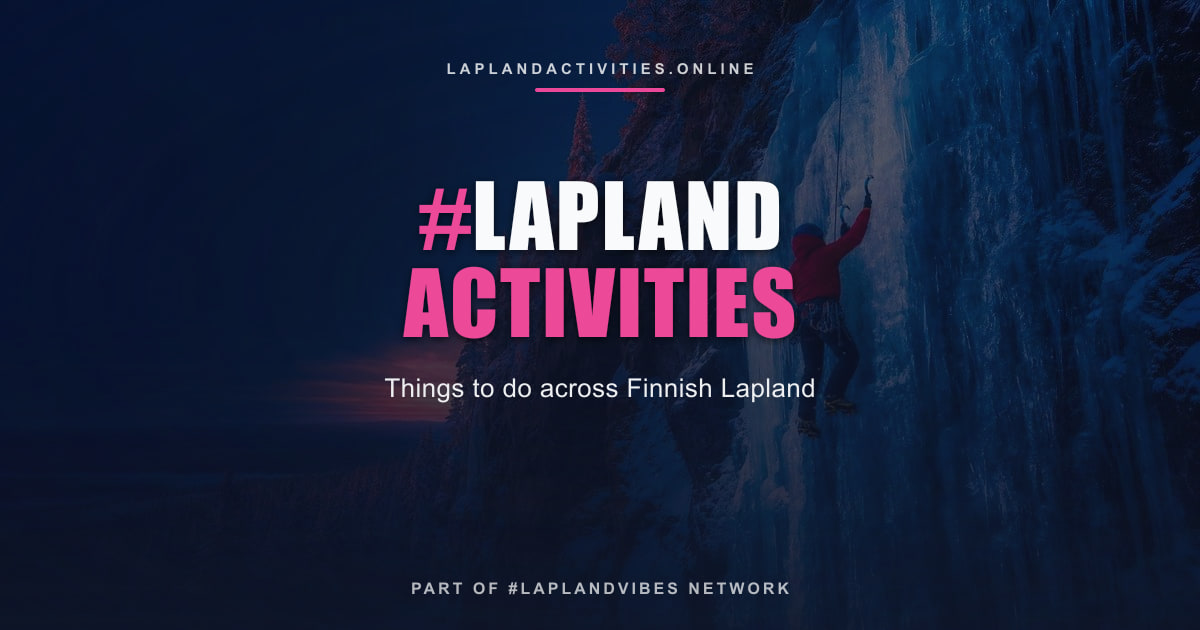
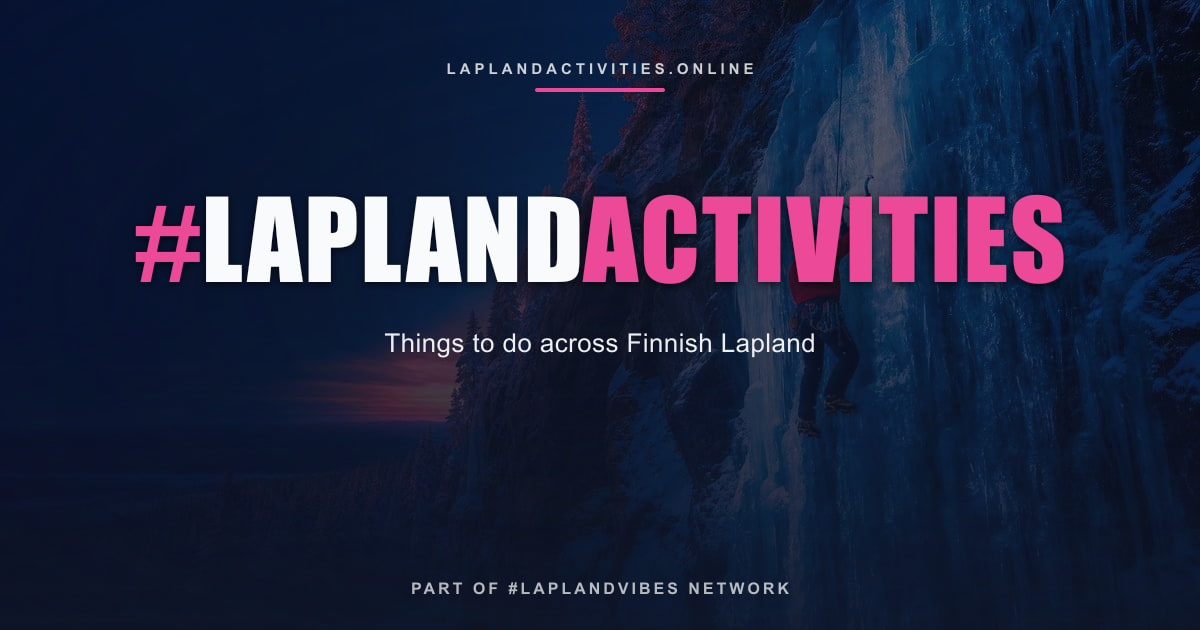
fix: GYG widgets were showing GLOBAL inventory (Shanghai tours on Inari page)
- root cause: locationId 178 is not a valid GYG location -> SDK silently
  fell back; and 4 more call sites had no locationId at all ('auto' mode)
- GetYourGuideWidget: locationId now REQUIRED, 'auto' fallback removed
  (TS then exposed the 3 hidden auto callers: Home/DestinationsIndex/
  SummerBand -> Lapland region 2652)
- per-destination verified IDs from _affiliate/gyg-location-ids.md:
  rovaniemi 2653, levi 150197, yllas 87669, saariselka 181615,
  inari 164594, ruka->kuusamo 113322, posio 217155, tornio 192017
- category pages: 178 -> 2652 (lapland-finland-l2652, verified)
- content: +2 authentic animal-experience niches (brown-bear hide
  watching Kuusamo/Ruka May-Aug, summer husky kennel + puppies) with
  fi/de/es/ja/pt-BR/zh-CN translations (others EN-fallback by design)

Changed region(s): [[0.0925, 0.2714, 0.8942, 0.573], [0.3083, 0.6032, 0.6783, 0.6333]]

diff --git a/src/locales/data.ja.ts b/src/locales/data.ja.ts
@@ -32,6 +32,8 @@ export const ACT_JA = {
   'rov-snowmobile-full': { title: '大自然スノーモービル遠征（終日）', description: 'ラップランドの奥深い自然へ分け入る100kmの壮大なスノーモービルアドベンチャー。凍った川を渡り、森の小道を進み、原生の山小屋で昼食をとります。', highlights: ['100kmのコース', '山小屋でのランチ', '川渡り'], duration: '7 h', difficulty: 'Impegnativo', category: 'アドベンチャー' },
   'rov-ice-karting': { title: '家族向けスノーモービル＆アイスカートコンボ', description: 'まずは子ども用ミニスノーモービルから始め、続いて氷上トラックでゴーカートレース。その後はホットチョコレートで体を温めます。', highlights: ['子ども用スノーモービル', 'アイスカートトラック', '家族向け'], duration: '3 h', difficulty: 'Facile', category: 'アドベンチャー' },
   'rov-arktikum': { title: 'Arktikum科学博物館と北極センター', description: 'Ounasjoki川を見晴らすガラスのトンネルが印象的な建築の一流博物館で、北極圏の魅力あふれる歴史と文化を探求します。', highlights: ['インタラクティブ展示', 'オーロラシアター', '北極圏の歴史'], duration: '2-3 h', difficulty: 'Facile', category: '文化と伝統' },
+  'ruka-bear-hide': { title: '観察小屋からのヒグマウォッチング', description: '東部国境近くのプロ仕様の撮影ハイドに座り、夕暮れにタイガから現れる野生のヒグマを待ちます。安全説明のあとは、静寂とフィンランド最大の捕食者だけの世界。ベストシーズンは5月から8月。', highlights: ['柵なしの野生ヒグマ', 'プロのハイドとガイド', 'ベストシーズンは5-8月'], duration: '夕方から翌朝', difficulty: '簡単', category: '動物ふれあい体験' },
+  'rov-husky-summer': { title: '夏のハスキー犬舎見学と子犬ふれあい', description: 'そり犬たちの夏休みをのぞいてみましょう。稼働中の犬舎を見学し、今年生まれた子犬に会い、ハスキーがシーズンの合間にどう訓練し休むのかを学びます。穏やかで家族向きの訪問で、いちばんの見どころは子犬エリアです。', highlights: ['今年生まれた子犬に会える', '稼働犬舎の見学', 'ファミリー向け'], duration: '2時間', difficulty: '簡単', category: '動物ふれあい体験' },
   'rov-ranua-zoo': { title: 'Ranua野生動物園、ホッキョクグマ', description: 'フィンランド唯一のホッキョクグマをはじめ、北極圏の動物たちに出会えます。雪道を歩きながら、クズリ、オオヤマネコ、オオカミなど50種以上の野生動物を観察できます。', highlights: ['ホッキョクグマ', '50種以上の北極圏の動物', '遊歩道'], duration: '3-4 h', difficulty: 'Facile', category: '動物とのふれあい' },
   'rov-ice-floating': { title: '北極圏アイスフローティング体験', description: 'ドライスーツを着て、北極圏の空の下、凍った川に浮かびます。非日常的で穏やかな体験のあとは、暖かいティーピーで温かい飲み物を。', highlights: ['ドライスーツの貸与', '温かい飲み物付き', '唯一無二の体験'], duration: '2 h', difficulty: 'Facile', category: 'ウェルネスとサウナ' },
   'rov-santapark': { title: 'SantaPark地下洞窟', description: '本物の洞窟の中にある地下のクリスマステーマパーク。エルフの学校、氷のギャラリー、ジンジャーブレッド作り、そして北極圏の地下での思い出に残るショー。', highlights: ['地下洞窟', 'エルフの学校', '氷のギャラリー'], duration: '2-3 h', difficulty: 'Facile', category: '文化と伝統' },

diff --git a/src/locales/data.es.ts b/src/locales/data.es.ts
@@ -32,6 +32,8 @@ export const ACT_ES = {
   'rov-snowmobile-full': { title: 'Expedición en motonieve por la naturaleza salvaje (día completo)', description: 'Una épica aventura en motonieve de 100 km en lo más profundo de la naturaleza lapona. Cruce ríos helados, recorra senderos forestales y deténgase en una cabaña salvaje para almorzar.', highlights: ['Recorrido de 100 km', 'Almuerzo en cabaña', 'Cruces de ríos'], duration: '7 h', difficulty: 'Difícil', category: 'Aventura' },
   'rov-ice-karting': { title: 'Combo de motonieve e ice karting para familias', description: 'Empiece con minimotonieves para niños y luego compita en la pista de hielo en kart. Caliéntese después con chocolate caliente.', highlights: ['Motonieves para niños', 'Pista de ice karting', 'Apto para familias'], duration: '3 h', difficulty: 'Fácil', category: 'Aventura' },
   'rov-arktikum': { title: 'Museo de la ciencia Arktikum y centro ártico', description: 'Explore la fascinante historia y cultura de la región ártica en este museo de primer nivel de arquitectura extraordinaria, con un túnel de cristal asomado al río Ounasjoki.', highlights: ['Exposiciones interactivas', 'Teatro de la aurora boreal', 'Historia ártica'], duration: '2-3 h', difficulty: 'Fácil', category: 'Cultura y patrimonio' },
+  'ruka-bear-hide': { title: 'Observación de osos pardos desde un escondite', description: 'Siéntate en un escondite fotográfico profesional cerca de la frontera este mientras osos pardos salvajes salen de la taiga al anochecer. Tras la charla de seguridad, solo quedáis tú, el silencio y el mayor depredador de Finlandia. Temporada alta de mayo a agosto.', highlights: ['Osos salvajes, sin vallas', 'Escondite profesional y guía', 'Temporada alta mayo-agosto'], duration: 'De la tarde a la mañana', difficulty: 'Fácil', category: 'Experiencias con animales' },
+  'rov-husky-summer': { title: 'Visita de verano a un criadero de huskies', description: 'Descubre qué hacen los perros de trineo en vacaciones: recorre un criadero en activo, conoce a los cachorros del año y aprende cómo entrenan y descansan los huskies entre temporadas. Una visita tranquila y familiar cuyo momento estrella es el recinto de los cachorros.', highlights: ['Conoce a los cachorros del año', 'Recorrido por el criadero', 'Ideal para familias'], duration: '2 h', difficulty: 'Fácil', category: 'Experiencias con animales' },
   'rov-ranua-zoo': { title: 'Parque de fauna de Ranua, osos polares', description: 'Conozca a los animales árticos, incluidos los únicos osos polares de Finlandia. Camine por senderos nevados entre glotones, linces, lobos y más de 50 especies salvajes.', highlights: ['Osos polares', 'Más de 50 especies árticas', 'Senderos'], duration: '3-4 h', difficulty: 'Fácil', category: 'Experiencias con animales' },
   'rov-ice-floating': { title: 'Experiencia de flotación sobre el hielo ártico', description: 'Flote sobre un río helado vestido con un traje seco bajo el cielo ártico. Una experiencia surrealista y apacible seguida de bebidas calientes en un tipi climatizado.', highlights: ['Traje seco incluido', 'Bebidas calientes incluidas', 'Experiencia única'], duration: '2 h', difficulty: 'Fácil', category: 'Bienestar y sauna' },
   'rov-santapark': { title: 'Caverna subterránea SantaPark', description: 'Un parque temático navideño subterráneo dentro de una caverna real. Escuela de elfos, galería de hielo, repostería de pan de jengibre y espectáculos inolvidables en el subsuelo ártico.', highlights: ['Caverna subterránea', 'Escuela de elfos', 'Galería de hielo'], duration: '2-3 h', difficulty: 'Fácil', category: 'Cultura y patrimonio' },

diff --git a/src/locales/data.pt-BR.ts b/src/locales/data.pt-BR.ts
@@ -32,6 +32,8 @@ export const ACT_PTBR = {
   'rov-snowmobile-full': { title: 'Expedição de snowmobile na natureza selvagem (dia inteiro)', description: 'Uma épica aventura de snowmobile de 100 km no coração da natureza lapônia. Atravesse rios congelados, percorra trilhas florestais e pare em uma cabana para o almoço.', highlights: ['Percurso de 100 km', 'Almoço na cabana', 'Travessias de rios'], duration: '7 h', difficulty: 'Desafiador', category: 'Aventura' },
   'rov-ice-karting': { title: 'Combo de snowmobile e kart no gelo para famílias', description: 'Comece com mini-snowmobiles para crianças, depois corra na pista de gelo em kart. Aqueça-se em seguida com chocolate quente.', highlights: ['Snowmobiles para crianças', 'Pista de kart no gelo', 'Ideal para famílias'], duration: '3 h', difficulty: 'Fácil', category: 'Aventura' },
   'rov-arktikum': { title: 'Museu de ciências Arktikum e centro ártico', description: 'Explore a fascinante história e cultura da região ártica neste museu de alto nível com uma arquitetura impressionante de túnel de vidro com vista para o rio Ounasjoki.', highlights: ['Exposições interativas', 'Teatro da aurora boreal', 'História ártica'], duration: '2-3 h', difficulty: 'Fácil', category: 'Cultura e patrimônio' },
+  'ruka-bear-hide': { title: 'Observação de ursos-pardos em esconderijo', description: 'Sente-se em um esconderijo fotográfico profissional perto da fronteira leste enquanto ursos-pardos selvagens saem da taiga ao anoitecer. Depois da orientação de segurança, restam só você, o silêncio e o maior predador da Finlândia. Alta temporada de maio a agosto.', highlights: ['Ursos selvagens, sem cercas', 'Esconderijo profissional e guia', 'Alta temporada maio-agosto'], duration: 'Do entardecer à manhã', difficulty: 'Fácil', category: 'Experiências com animais' },
+  'rov-husky-summer': { title: 'Visita de verão a um canil de huskies', description: 'Veja o que os cães de trenó fazem nas férias: conheça um canil em atividade no verão, encontre os filhotes do ano e aprenda como os huskies treinam e descansam entre as temporadas. Uma visita tranquila e familiar, cujo ponto alto é o cercado dos filhotes.', highlights: ['Conheça os filhotes do ano', 'Tour pelo canil em atividade', 'Para toda a família'], duration: '2 h', difficulty: 'Fácil', category: 'Experiências com animais' },
   'rov-ranua-zoo': { title: 'Parque de vida selvagem de Ranua, ursos polares', description: 'Conheça os animais árticos, incluindo os únicos ursos polares da Finlândia. Caminhe por trilhas nevadas entre carcajus, linces, lobos e mais de 50 espécies selvagens.', highlights: ['Ursos polares', 'Mais de 50 espécies árticas', 'Trilhas'], duration: '3-4 h', difficulty: 'Fácil', category: 'Experiências com animais' },
   'rov-ice-floating': { title: 'Experiência de flutuação no gelo ártico', description: 'Flutue em um rio congelado vestindo uma roupa estanque sob o céu ártico. Uma experiência surreal e tranquila, seguida de bebidas quentes em um teepee aquecido.', highlights: ['Roupa estanque fornecida', 'Bebidas quentes incluídas', 'Experiência única'], duration: '2 h', difficulty: 'Fácil', category: 'Bem-estar e sauna' },
   'rov-santapark': { title: 'Caverna subterrânea SantaPark', description: 'Um parque temático de Natal subterrâneo dentro de uma caverna de verdade. Escola de elfos, galeria de gelo, confeitaria de pão de mel e espetáculos memoráveis no subsolo ártico.', highlights: ['Caverna subterrânea', 'Escola de elfos', 'Galeria de gelo'], duration: '2-3 h', difficulty: 'Fácil', category: 'Cultura e patrimônio' },

diff --git a/src/locales/data.de.ts b/src/locales/data.de.ts
@@ -32,6 +32,8 @@ export const ACT_DE = {
   'rov-snowmobile-full': { title: 'Schneemobil-Expedition in die Wildnis (ganztägig)', description: 'Ein episches Schneemobil-Abenteuer über 100 km tief in die lappländische Wildnis. Überqueren Sie gefrorene Flüsse, fahren Sie über Waldpfade und machen Sie in einer Wildnishütte Mittagspause.', highlights: ['Strecke von 100 km', 'Mittagessen in der Hütte', 'Flussüberquerungen'], duration: '7 Std.', difficulty: 'Challenging', category: 'Abenteuer' },
   'rov-ice-karting': { title: 'Schneemobil- und Ice-Karting-Kombi für Familien', description: 'Beginnen Sie mit Mini-Schneemobilen für Kinder, rasen Sie anschließend in Go-Karts über die Eisbahn. Danach wärmen Sie sich bei heißer Schokolade auf.', highlights: ['Schneemobile für Kinder', 'Ice-Karting-Bahn', 'Familienfreundlich'], duration: '3 Std.', difficulty: 'Easy', category: 'Abenteuer' },
   'rov-arktikum': { title: 'Wissenschaftsmuseum Arktikum und Arktiszentrum', description: 'Erkunden Sie die faszinierende Geschichte und Kultur der arktischen Region in diesem erstklassigen Museum mit beeindruckender Glastunnel-Architektur am Ufer des Flusses Ounasjoki.', highlights: ['Interaktive Ausstellungen', 'Nordlicht-Theater', 'Arktische Geschichte'], duration: '2-3 Std.', difficulty: 'Easy', category: 'Kultur und Erbe' },
+  'ruka-bear-hide': { title: 'Braunbären-Beobachtung aus dem Versteck', description: 'Sitzen Sie in einem professionellen Fotoversteck nahe der Ostgrenze, während wilde Braunbären in der Dämmerung aus der Taiga treten. Nach der Sicherheitseinweisung bleiben nur Sie, die Stille und Finnlands größtes Raubtier. Hauptsaison Mai bis August.', highlights: ['Wilde Braunbären, keine Zäune', 'Profi-Versteck & Guide', 'Hauptsaison Mai-August'], duration: 'Abend bis Morgen', difficulty: 'Leicht', category: 'Tiererlebnisse' },
+  'rov-husky-summer': { title: 'Sommerlicher Husky-Kennelbesuch mit Welpen', description: 'Sehen Sie, was Schlittenhunde im Urlaub machen: Besichtigen Sie im Sommer einen aktiven Kennel, treffen Sie die Welpen des Jahres und erfahren Sie, wie Huskys zwischen den Saisons trainieren und ruhen. Ein ruhiger, familienfreundlicher Besuch, dessen Höhepunkt das Welpengehege ist.', highlights: ['Welpen des Jahrgangs treffen', 'Rundgang durch aktiven Kennel', 'Familienfreundlich'], duration: '2 Std.', difficulty: 'Leicht', category: 'Tiererlebnisse' },
   'rov-ranua-zoo': { title: 'Wildpark Ranua, Eisbären', description: 'Begegnen Sie arktischen Tieren, darunter die einzigen Eisbären Finnlands. Wandern Sie auf verschneiten Pfaden zwischen Vielfraßen, Luchsen, Wölfen und über 50 Wildtierarten.', highlights: ['Eisbären', 'Über 50 arktische Arten', 'Wanderwege'], duration: '3-4 Std.', difficulty: 'Easy', category: 'Tiererlebnisse' },
   'rov-ice-floating': { title: 'Arktisches Eis-Floating-Erlebnis', description: 'Treiben Sie in einem Trockenanzug auf einem gefrorenen Fluss unter dem arktischen Himmel. Ein surreales und friedliches Erlebnis, gefolgt von heißen Getränken in einem beheizten Tipi.', highlights: ['Trockenanzug gestellt', 'Heiße Getränke inklusive', 'Einzigartiges Erlebnis'], duration: '2 Std.', difficulty: 'Easy', category: 'Wellness und Sauna' },
   'rov-santapark': { title: 'Unterirdische Höhle SantaPark', description: 'Ein unterirdischer Weihnachts-Themenpark in einer echten Höhle. Elfenschule, Eisgalerie, Lebkuchenbäckerei und unvergessliche Shows tief unter der Arktis.', highlights: ['Unterirdische Höhle', 'Elfenschule', 'Eisgalerie'], duration: '2-3 Std.', difficulty: 'Easy', category: 'Kultur und Erbe' },

diff --git a/src/locales/data.fi.ts b/src/locales/data.fi.ts
@@ -32,6 +32,8 @@ export const ACT_FI = {
   'rov-snowmobile-full': { title: 'Erämaan moottorikelkkaretki (koko päivä)', description: 'Eeppinen 100 km:n moottorikelkkaseikkailu syvälle Lapin erämaahan. Ylitä jäätyneitä jokia, aja metsäpolkuja pitkin ja pysähdy lounaalle erämaakämpällä.', highlights: ['100 km:n reitti', 'Lounas erämaakämpällä', 'Jokiylityksiä'], duration: '7 h', difficulty: 'Vaativa', category: 'Seikkailu' },
   'rov-ice-karting': { title: 'Perheen moottorikelkka- ja jääkartingyhdistelmä', description: 'Aloita lasten minimoottorikelkoilla ja kilpaile sitten jääradalla mönkijöillä. Lämmittele lopuksi kuumalla kaakaolla.', highlights: ['Lasten moottorikelkat', 'Jääkartingrata', 'Sopii perheille'], duration: '3 h', difficulty: 'Helppo', category: 'Seikkailu' },
   'rov-arktikum': { title: 'Arktikum-tiedemuseo ja arktinen keskus', description: 'Tutustu arktisen alueen kiehtovaan historiaan ja kulttuuriin tässä huipputason museossa, jonka näyttävä lasitunneliarkkitehtuuri avautuu Ounasjoelle.', highlights: ['Interaktiiviset näyttelyt', 'Revontuliteatteri', 'Arktinen historia'], duration: '2-3 h', difficulty: 'Helppo', category: 'Kulttuuri ja perintö' },
+  'ruka-bear-hide': { title: 'Karhujen katselu piilokojusta', description: 'Istu ammattimaisessa kuvauskojussa itärajan tuntumassa, kun villit ruskeakarhut ilmestyvät taigalta iltahämärässä. Opas perehdyttää turvallisuuteen, ja sitten jäljellä on vain hiljaisuus ja Suomen suurin peto. Paras kausi toukokuusta elokuuhun.', highlights: ['Villejä karhuja ilman aitoja', 'Ammattikoju ja opas', 'Paras kausi touko-elokuu'], duration: 'Ilta-aamu', difficulty: 'Helppo', category: 'Eläinkokemukset' },
+  'rov-husky-summer': { title: 'Kesäinen huskykennelvierailu ja pennut', description: 'Katso mitä rekikoirat tekevät lomallaan: kierrä toimiva kennel kesällä, tapaa tämän vuoden pennut ja opi, miten huskyt treenaavat ja lepäävät kausien välillä. Rauhallinen, perheystävällinen vierailu, jonka kiistaton kohokohta on pentutarha.', highlights: ['Tapaa tämän vuoden pennut', 'Toimivan kennelin kierros', 'Perheystävällinen'], duration: '2 h', difficulty: 'Helppo', category: 'Eläinkokemukset' },
   'rov-ranua-zoo': { title: 'Ranuan eläinpuisto, jääkarhut', description: 'Tapaa arktiset eläimet, mukaan lukien Suomen ainoat jääkarhut. Kävele lumisia polkuja ahmojen, ilvesten, susien ja yli 50 villin lajin keskellä.', highlights: ['Jääkarhut', 'Yli 50 arktista lajia', 'Kävelypolut'], duration: '3-4 h', difficulty: 'Helppo', category: 'Eläinkokemukset' },
   'rov-ice-floating': { title: 'Arktinen jääkelluntaelämys', description: 'Kellu jäätyneellä joella kuivapuvussa arktisen taivaan alla. Surrealistinen ja rauhallinen kokemus, jota seuraavat lämpimät juomat lämmitetyssä kodassa.', highlights: ['Kuivapuku mukana', 'Lämpimät juomat sisältyvät', 'Ainutlaatuinen kokemus'], duration: '2 h', difficulty: 'Helppo', category: 'Hyvinvointi ja sauna' },
   'rov-santapark': { title: 'SantaParkin maanalainen luola', description: 'Maanalainen joulun teemapuisto aidossa luolassa. Tonttukoulu, jäägalleria, piparkakkujen leivontaa ja ikimuistoisia esityksiä arktisen maan uumenissa.', highlights: ['Maanalainen luola', 'Tonttukoulu', 'Jäägalleria'], duration: '2-3 h', difficulty: 'Helppo', category: 'Kulttuuri ja perintö' },

diff --git a/src/data/destinations.ts b/src/data/destinations.ts
@@ -9,6 +9,8 @@ export interface Destination {
   elevation: string;
   bestFor: string;
   operators: string[];
+  /** GYG numeric location ID — canonical: laplandvibes/_affiliate/gyg-location-ids.md */
+  gygLocationId: string;
   image: string;
   heroImage: string;
 }
@@ -16,6 +18,7 @@ export interface Destination {
 export const destinations: Destination[] = [
   {
     slug: 'rovaniemi',
+    gygLocationId: '2653',
     name: 'Rovaniemi',
     tagline: 'The Official Hometown of Santa Claus',
     description: 'The capital of Lapland and gateway to arctic adventures. Home to Santa Claus Village, excellent transport links, and a huge range of winter and summer activities.',
@@ -28,6 +31,7 @@ export const destinations: Destination[] = [
   },
   {
     slug: 'levi',
+    gygLocationId: '150197',
     name: 'Levi',
     tagline: 'Finland\'s Largest Ski Resort',
     description: 'A premier ski destination with 43 slopes and 230 km of cross-country trails. Vibrant après-ski scene at Hullu Poro and year-round outdoor activities.',
@@ -40,6 +44,7 @@ export const destinations: Destination[] = [
   },
   {
     slug: 'yllas',
+    gygLocationId: '87669',
     name: 'Ylläs',
     tagline: 'The Longest Slopes in Finland',
     description: 'Two ski resorts on either side of Ylläs fell offer the longest runs in Finland at 3.2 km. A quieter, more authentic Lapland experience with Pallas-Yllästunturi National Park.',
@@ -52,6 +57,7 @@ export const destinations: Destination[] = [
   },
   {
     slug: 'saariselka',
+    gygLocationId: '181615',
     name: 'Saariselkä',
     tagline: 'Gateway to Urho Kekkonen National Park',
     description: 'The northernmost ski resort in Finland, bordering one of Europe\'s largest wilderness areas. Famous for aurora viewing, gold panning, and the legendary Kiilopää smoke sauna.',
@@ -64,6 +70,7 @@ export const destinations: Destination[] = [
   },
   {
     slug: 'inari',
+    gygLocationId: '164594',
     name: 'Inari',
     tagline: 'Heart of Sámi Culture',
     description: 'Located on the shores of Lake Inari with over 3,000 islands, this is the cultural capital of the Finnish Sámi people. Home to the Siida museum and pristine wilderness.',
@@ -76,6 +83,7 @@ export const destinations: Destination[] = [
   },
   {
     slug: 'ruka',
+    gygLocationId: '113322',
     name: 'Ruka & Kuusamo',
     tagline: 'Wilderness Capital of Finland',
     description: 'Home to the legendary Karhunkierros Bear Trail, Oulanka National Park, and one of Finland\'s best ski resorts. Famous for bear watching, river rafting, and the longest ski season.',
@@ -88,6 +96,7 @@ export const destinations: Destination[] = [
   },
   {
     slug: 'posio',
+    gygLocationId: '217155',
     name: 'Posio',
     tagline: 'Hidden Gem of Eastern Lapland',
     description: 'Famous for the spectacular snow-crowned trees of Riisitunturi National Park and the frozen waterfalls of Korouoma canyon. Off the beaten path, pure wilderness.',
@@ -100,6 +109,7 @@ export const destinations: Destination[] = [
   },
   {
     slug: 'tornio',
+    gygLocationId: '192017',
     name: 'Tornio & Kemi',
     tagline: 'Arctic Border Adventures',
     description: 'The Finland-Sweden border town and gateway to unique Arctic experiences. Home to the legendary Icebreaker Sampo cruise, the world\'s largest SnowCastle, and Europe\'s best salmon river.',

diff --git a/src/locales/data.zh-CN.ts b/src/locales/data.zh-CN.ts
@@ -32,6 +32,8 @@ export const ACT_ZHCN = {
   'rov-snowmobile-full': { title: '荒野雪地摩托探险（全天）', description: '一场深入拉普兰荒野的 100 公里史诗级雪地摩托之旅。穿越冰封河流、驰骋林间小径，并在荒野小屋享用午餐。', highlights: ['100 公里路线', '荒野小屋午餐', '渡河'], duration: '7 小时', difficulty: '高难度', category: '探险' },
   'rov-ice-karting': { title: '家庭雪地摩托与冰上卡丁车组合', description: '从儿童迷你雪地摩托开始，再在冰道上驾驶卡丁车竞速。结束后用热巧克力暖身。', highlights: ['儿童雪地摩托', '冰上卡丁车赛道', '适合家庭'], duration: '3 小时', difficulty: '简单', category: '探险' },
   'rov-arktikum': { title: 'Arktikum 科学博物馆与北极中心', description: '在这座建筑非凡、玻璃隧道俯瞰 Ounasjoki 河的高水准博物馆中，探索北极地区迷人的历史与文化。', highlights: ['互动展览', '极光剧场', '北极历史'], duration: '2-3 小时', difficulty: '简单', category: '文化与遗产' },
+  'ruka-bear-hide': { title: '隐蔽屋观棕熊', description: '坐进东部边境附近的专业摄影隐蔽屋,黄昏时分野生棕熊从泰加林中走出。向导讲解安全事项后,剩下的只有你、寂静和芬兰最大的掠食者。最佳季节为5月至8月。', highlights: ['野生棕熊,无围栏', '专业隐蔽屋与向导', '最佳季节5-8月'], duration: '傍晚至清晨', difficulty: '轻松', category: '动物体验' },
+  'rov-husky-summer': { title: '夏季哈士奇犬舍参观与幼犬互动', description: '看看雪橇犬如何度假:夏季参观运营中的犬舍,见到当年出生的幼犬,了解哈士奇在两季之间如何训练与休整。安静、适合全家的行程,幼犬区是当之无愧的亮点。', highlights: ['见到当年的幼犬', '参观运营犬舍', '适合全家'], duration: '2小时', difficulty: '轻松', category: '动物体验' },
   'rov-ranua-zoo': { title: 'Ranua 野生动物园，北极熊', description: '与北极动物相遇，包括芬兰唯一的北极熊。沿着雪径漫步，观赏狼獾、猞猁、狼以及逾 50 种野生动物。', highlights: ['北极熊', '逾 50 种北极物种', '步道'], duration: '3-4 小时', difficulty: '简单', category: '动物体验' },
   'rov-ice-floating': { title: '北极冰上漂浮体验', description: '身着干式潜水服，在北极天空下漂浮于冰封河面。这是一段超现实而宁静的体验，结束后在保暖的帐篷里享用热饮。', highlights: ['提供干式潜水服', '含热饮', '独特体验'], duration: '2 小时', difficulty: '简单', category: '康养与桑拿' },
   'rov-santapark': { title: 'SantaPark 地下洞穴', description: '一座位于真正洞穴内的地下圣诞主题乐园。精灵学校、冰雪长廊、姜饼烘焙以及北极地下令人难忘的演出。', highlights: ['地下洞穴', '精灵学校', '冰雪长廊'], duration: '2-3 小时', difficulty: '简单', category: '文化与遗产' },

diff --git a/index.html b/index.html
@@ -75,7 +75,7 @@
     <link rel="preconnect" href="https://widget.getyourguide.com" crossorigin />
     <link rel="dns-prefetch" href="https://widget.getyourguide.com" />
 
-    <title>LaplandActivities — Book Verified Arctic Tours in Finnish Lapland</title>
+    <title>LaplandActivities: book hand-picked Arctic tours in Finnish Lapland</title>
     <meta name="description" content="Snowmobile safaris, husky sledding, aurora hunts, smoke saunas. Book hand-picked Lapland activities through trusted operators across Rovaniemi, Levi, Saariselkä and beyond." />
     <meta name="author" content="LaplandActivities — part of #LaplandVibes" />
     <meta name="robots" content="index, follow" />
@@ -83,15 +83,15 @@
     <!-- Open Graph -->
     <meta property="og:type" content="website" />
     <meta property="og:site_name" content="LaplandActivities" />
-    <meta property="og:title" content="LaplandActivities — Verified Arctic Experiences" />
-    <meta property="og:description" content="Book verified Lapland tours — instant confirmation, free cancellation up to 24h on most tours." />
+    <meta property="og:title" content="LaplandActivities: hand-picked Arctic experiences" />
+    <meta property="og:description" content="Book hand-picked Lapland tours, instant confirmation, free cancellation up to 24h on most tours." />
     <meta property="og:url" content="https://laplandactivities.online/" />
     <meta property="og:locale" content="en_US" />
 
     <!-- Twitter -->
     <meta name="twitter:site" content="@laplandvibes" />
-    <meta name="twitter:title" content="LaplandActivities — Verified Arctic Experiences" />
-    <meta name="twitter:description" content="Book verified Lapland tours — instant confirmation, free cancellation up to 24h on most tours." />
+    <meta name="twitter:title" content="LaplandActivities: hand-picked Arctic experiences" />
+    <meta name="twitter:description" content="Book hand-picked Lapland tours, instant confirmation, free cancellation up to 24h on most tours." />
     <!-- GetYourGuide Integration Analyzer (LV partner ID) -->
     <script async defer src="https://widget.getyourguide.com/dist/pa.umd.production.min.js" data-gyg-partner-id="VRMKD7N"></script>
 

diff --git a/src/components/GetYourGuideWidget.tsx b/src/components/GetYourGuideWidget.tsx
@@ -86,8 +86,12 @@ const DEFAULTS: Record<Lang, { title: string; eyebrow: string; subtitle: string;
 interface Props {
   /** Campaign tag (cmp) — used by GYG analytics. Lowercase, hyphenated. */
   cmpTag: string;
-  /** Optional GYG location ID, e.g. 'l2653' for Rovaniemi. Omit for "all of Lapland". */
-  locationId?: string;
+  /** GYG numeric location ID (REQUIRED). Canonical verified table:
+   *  laplandvibes/_affiliate/gyg-location-ids.md — e.g. Rovaniemi 2653,
+   *  Inari 164594, Lapland region 2652. NEVER omit: without a valid ID the
+   *  SDK falls back to its GLOBAL list (Shanghai tours on an Inari page,
+   *  Vesa 2026-07-07). Note: 178 was invalid and caused exactly that. */
+  locationId: string;
   /** Number of tour cards to show. Defaults to 3. */
   numberOfItems?: number;
   /** Section heading. */
@@ -111,7 +115,9 @@ export default function GetYourGuideWidget({
   const resolvedTitle = title ?? d.title;
   const resolvedEyebrow = eyebrow ?? d.eyebrow;
   const resolvedSubtitle = subtitle ?? d.subtitle;
-  const widgetType = locationId ? 'activities' : 'auto';
+  // 'auto' and 'city' widget modes are BANNED (2026-07-02 rule) — they ignore
+  // location targeting and show GYG's global inventory.
+  const widgetType = 'activities';
 
   return (
     <section className="py-14 sm:py-20 px-4 sm:px-6 bg-deep-night border-t border-white/5">
@@ -132,7 +138,7 @@ export default function GetYourGuideWidget({
           data-gyg-partner-id={GYG_PARTNER_ID}
           data-gyg-locale-code={GYG_LOCALE[lang]}
           data-gyg-cmp={cmpTag}
-          {...(locationId ? { 'data-gyg-location-id': locationId } : {})}
+          data-gyg-location-id={locationId}
           {...(numberOfItems ? { 'data-gyg-number-of-items': String(numberOfItems) } : {})}
         />
 

diff --git a/src/data/activities.ts b/src/data/activities.ts
@@ -87,6 +87,38 @@ export const activities: Activity[] = [
     highlights: ['Sami culture talk', '2 km sleigh ride', 'Reindeer feeding'],
   },
   {
+    id: 'ruka-bear-hide',
+    title: 'Brown Bear Watching from a Wilderness Hide',
+    operator: 'Local wildlife guides',
+    destination: 'Ruka',
+    destinationSlug: 'ruka',
+    category: 'Animal Experiences',
+    categorySlug: 'animals',
+    price: 0,
+    duration: 'Evening to morning',
+    difficulty: 'Easy',
+    season: ['summer', 'autumn'],
+    description: 'Sit in a professional photography hide near the eastern border as wild brown bears wander out of the taiga at dusk. Guides brief you on safety, then it is just you, the silence and Finland\'s largest predator. Prime season runs May to August.',
+    groupSize: '2-8',
+    highlights: ['Wild brown bears, no fences', 'Professional hide & guide', 'Prime season May-August'],
+  },
+  {
+    id: 'rov-husky-summer',
+    title: 'Summer Husky Kennel Visit & Puppy Meet',
+    operator: 'Rovaniemi husky kennels',
+    destination: 'Rovaniemi',
+    destinationSlug: 'rovaniemi',
+    category: 'Animal Experiences',
+    categorySlug: 'animals',
+    price: 0,
+    duration: '2 hours',
+    difficulty: 'Easy',
+    season: ['summer', 'autumn'],
+    description: 'See what sled dogs do on their holiday: tour a working kennel in summer, meet this year\'s puppies and learn how huskies train and rest between seasons. A calm, family-friendly visit where the puppy pen is the undisputed highlight.',
+    groupSize: '2-15',
+    highlights: ['Meet this year\'s puppies', 'Working kennel tour', 'Family-friendly'],
+  },
+  {
     id: 'rov-snowmobile-full',
     title: 'Full-Day Wilderness Snowmobile Expedition',
     operator: 'Arctic Circle Snowmobile Park',

diff --git a/src/components/Navigation.tsx b/src/components/Navigation.tsx
@@ -5,6 +5,7 @@ import AffiliateCTA from './AffiliateCTA';
 import { destinations } from '../data/destinations';
 import { categories } from '../data/categories';
 import { useLang, useLocalePath, pick } from '../i18n/useLang';
+import EcosystemMenu from '../../../shared/EcosystemMenu';
 import { COPY } from '../locales/copy';
 import { localizeCategory, localizeDestination } from '../locales/data';
 
@@ -158,13 +159,16 @@ export default function Navigation() {
       }`}
     >
       <div className="max-w-7xl mx-auto px-4 sm:px-6 h-16 flex items-center justify-between">
-        <Link to={to('/')} className="flex items-center" aria-label="LaplandActivities home">
-          <span className="font-heading tracking-wide text-2xl sm:text-3xl">
-            <span className="text-vibe-pink">#</span>
-            <span className="text-snow">LAPLAND</span>
-            <span className="text-vibe-pink">ACTIVITIES</span>
-          </span>
-        </Link>
+        <div className="flex items-center gap-3 sm:gap-5 shrink-0">
+          <EcosystemMenu lang={lang} currentDomain="laplandactivities.online" />
+          <Link to={to('/')} className="flex items-center" aria-label="LaplandActivities home">
+            <span className="font-heading tracking-wide text-2xl sm:text-3xl">
+              <span className="text-vibe-pink">#</span>
+              <span className="text-snow">LAPLAND</span>
+              <span className="text-vibe-pink">ACTIVITIES</span>
+            </span>
+          </Link>
+        </div>
 
         <div className="hidden md:flex items-center gap-5 lg:gap-6" ref={dropRef}>
           <Link

diff --git a/src/pages/DestinationsIndex.tsx b/src/pages/DestinationsIndex.tsx
@@ -101,7 +101,7 @@ export default function DestinationsIndex() {
         </section>
       </main>
 
-      <GetYourGuideWidget cmpTag="laplandactivities-destinations-auto" title={c.gygTitle} eyebrow={c.gygEyebrow} />
+      <GetYourGuideWidget locationId="2652" cmpTag="laplandactivities-destinations-auto" title={c.gygTitle} eyebrow={c.gygEyebrow} />
       <BookingCTA />
     </>
   );
